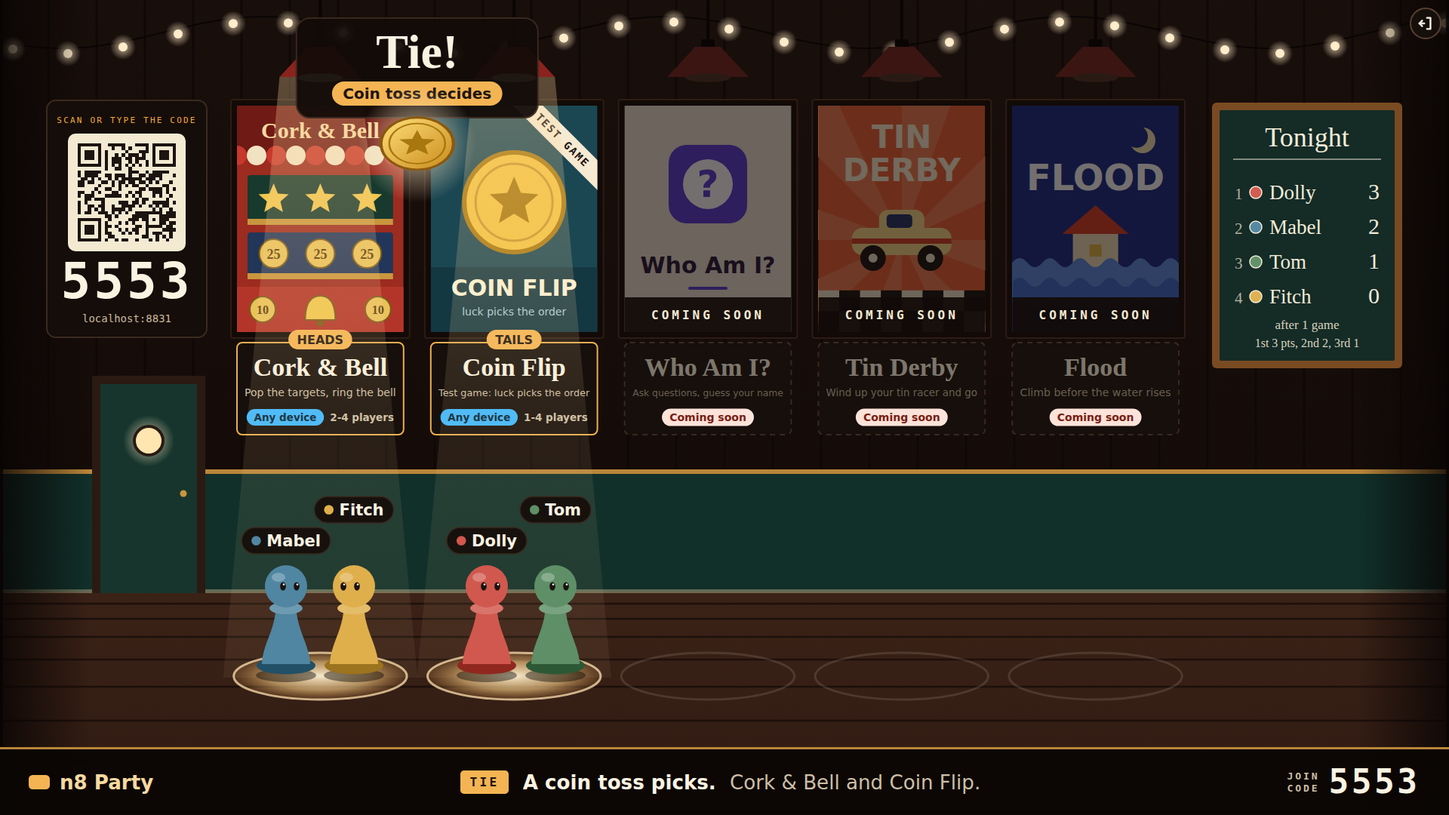
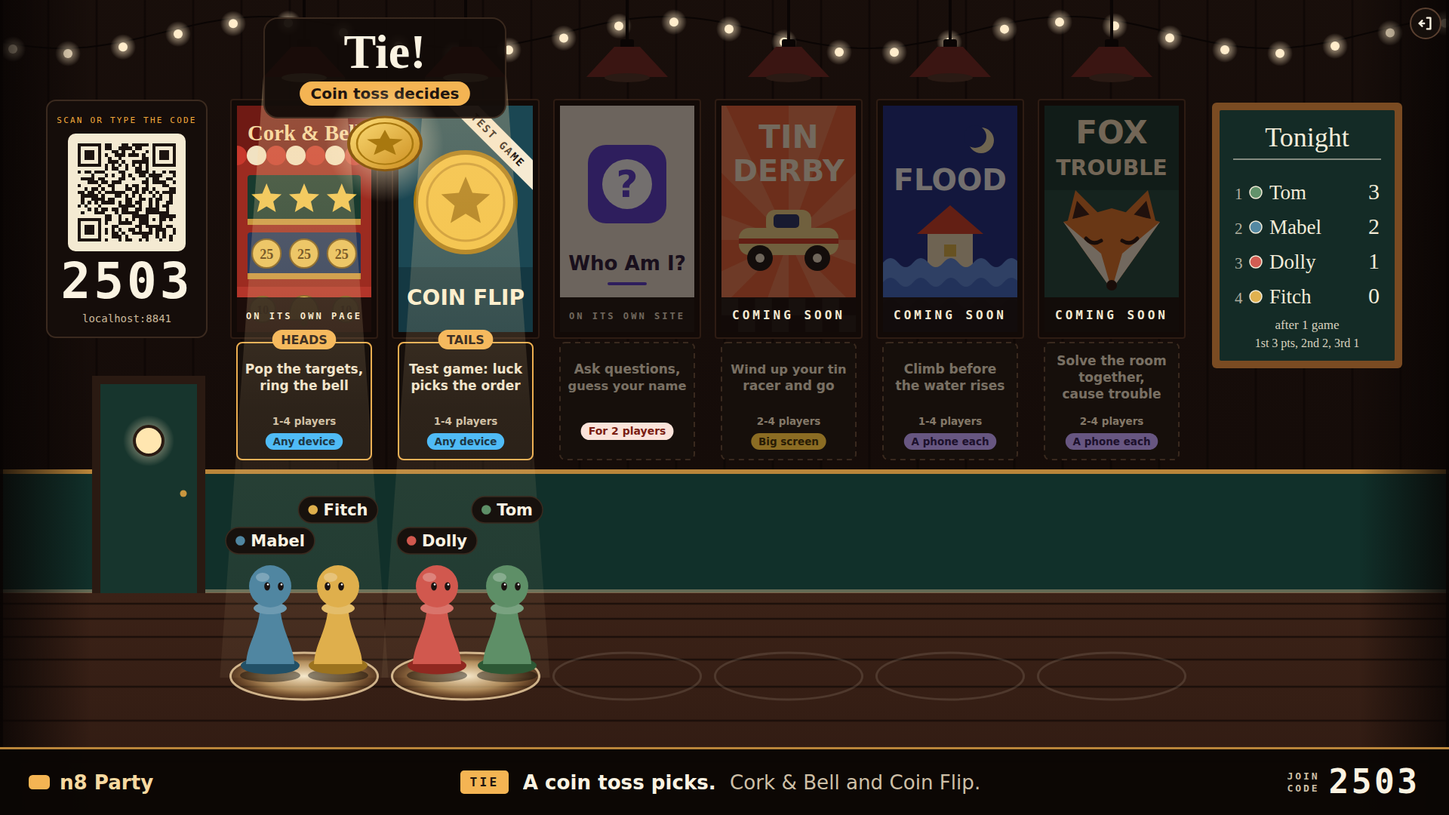
feat(lobby): signs say how many can play, Cork & Bell takes one to four, and Fox Trouble hangs sixth
Every sign states its player count, the coming-soon boxes too (their poster
says COMING SOON, so the sign is free to). A game that also plays alone
(players.solo) can be picked by a party of one, so Cork & Bell reads 1-4.
Flood is 1-4, Tin Derby 2-4, and Fox Trouble is a new coming-soon box.

The signs are laid out per wall: the line of words wraps to the width, the
count and the badge stack where they cannot share a row, and on a phone with
five boxes or more the sign keeps the count and the badge only.

Docs, stills, the socket test, the stills run (with the production wall via
--plain) and the measurement follow the new wall.

diff --git a/lobby/public/scene.js b/lobby/public/scene.js
@@ -53,8 +53,7 @@ export class Scene {
     this.joinSign(room);
     this.door();
     this.board();
-    /** Every sign's line of words: the signs are laid out alike, for the longest of them. */
-    this.wide = room.boxes.map((box) => box.blurb);
+    this.signs = this.planSigns(room.boxes, boxWidth(n));
     this.boxes = room.boxes.map((box, i) => this.box(box, i, n));
     this.overlay();
     // Now that it is all in the page, make every line of text fit its place.
@@ -181,21 +180,21 @@ export class Scene {
     frame.append(art, b.goldFrame);
 
     // The sign under the poster: one line about the game, the device badge and how many play.
-    // The game's name is on the poster and nowhere else. A phone gets bigger words, and the line
-    // is broken in two wherever the signs are too narrow to hold it at a size worth reading.
-    const blurbSize = compact ? 24 : 17;
-    const step = compact ? 29 : 22;
-    const two = compact || this.wide.some((line) => line.length * blurbSize * 0.54 > w - 18);
-    const lines = two ? twoLines(box.blurb) : [box.blurb];
-    const signH = compact ? 126 : two ? 106 : 84;
-    b.sign = s("rect", { x, y: SIGN_TOP, width: w, height: signH, rx: 7, "stroke-width": 2 });
-    const firstY = SIGN_TOP + (compact ? 33 : 30) + (two && lines.length === 1 ? step / 2 : 0);
-    b.blurbs = lines.map((line, k) => label(line, { x: cx, y: firstY + k * step, "font-size": blurbSize, "text-anchor": "middle", class: "t-ui t-semi", "data-fit": w - 18 }));
+    // The game's name is on the poster and nowhere else. Every sign on a wall is laid out alike
+    // (this.signs, worked out once for the wall): the line of words broken to fit, then how many
+    // play and the device badge, side by side where there is room and one above the other where not.
+    const plan = this.signs;
+    const lines = plan.lines ? wrap(box.blurb, plan.chars) : [];
+    const firstY = SIGN_TOP + (compact ? 33 : 30) + ((plan.lines - lines.length) * plan.step) / 2;
+    b.blurbs = lines.map((line, k) => label(line, { x: cx, y: firstY + k * plan.step, "font-size": plan.size, "text-anchor": "middle", class: "t-ui t-semi", "data-fit": w - 18 }));
+    b.rowY = SIGN_TOP + (plan.lines ? (compact ? 33 : 30) + (plan.lines - 1) * plan.step + (compact ? 34 : 30) : compact ? 30 : 24);
+    b.rowY2 = plan.stacked ? b.rowY + (compact ? 40 : 27) : b.rowY;
+    b.sign = s("rect", { x, y: SIGN_TOP, width: w, height: b.rowY2 - SIGN_TOP + (compact ? 30 : 24), rx: 7, "stroke-width": 2 });
     const [badgeFill, badgeInk] = BADGE_COLOURS[box.badge];
-    b.badge = pill(BADGES[box.badge], compact ? 21 : 13.5, badgeFill, badgeInk);
-    b.players = label(playersLabel(box.min, box.max), { "font-size": compact ? 20 : 13.5, fill: "#cdbfa6", class: "t-ui t-semi" });
+    // The longest badge is cut short where a sign is too narrow to hold it at a size worth reading.
+    b.badge = pill(plan.tight && box.badge === "screen" ? "Big screen" : BADGES[box.badge], compact ? 21 : 13.5, badgeFill, badgeInk);
+    b.players = label(playersLabel(box.min, box.max), { "font-size": compact ? 22 : 13.5, fill: "#cdbfa6", class: "t-ui t-semi" });
     b.reason = pill("Coming soon", compact ? 21 : 14, "#fbe3da", "#7a1d12");
-    b.rowY = SIGN_TOP + (compact ? 96 : two ? 82 : 60);
     b.chip = pill("HEADS", compact ? 22 : 16, "#f4b453", "#1e1410");
     set(b.chip.g, { display: "none" });
     frame.append(b.sign, ...b.blurbs, b.badge.g, b.players, b.reason.g, b.chip.g);
@@ -212,22 +211,41 @@ export class Scene {
   /** Places the badge, the player count or the reason on a sign's bottom row, centred. */
   layoutSign(b) {
     const compact = this.opts.compact;
-    sizePill(b.badge);
-    sizePill(b.reason);
+    sizePill(b.badge, b.w - 12);
+    sizePill(b.reason, b.w - 12);
     sizePill(b.chip);
-    place(b.reason, b.cx - b.reason.w / 2, b.rowY);
+    place(b.reason, b.cx - b.reason.w / 2, (b.rowY + b.rowY2) / 2);
     place(b.chip, b.cx - b.chip.w / 2, SIGN_TOP - 4);
-    const gap = compact ? 10 : 8;
+    const drop = compact ? 7.5 : 4.5; // from a row's middle to the baseline of its words
     const playersW = b.players.getComputedTextLength();
-    // How many play goes beside the badge wherever both fit; on a phone's narrow sign the badge stands alone.
-    b.roomy = b.badge.w + gap + playersW <= b.w - 14;
-    if (!b.roomy) {
-      set(b.players, { display: "none" });
-      return place(b.badge, b.cx - b.badge.w / 2, b.rowY);
+    if (this.signs.stacked) {
+      // A narrow sign: how many play, and the badge under it.
+      set(b.players, { x: b.cx - playersW / 2, y: b.rowY + drop });
+      return place(b.badge, b.cx - b.badge.w / 2, b.rowY2);
     }
+    const gap = compact ? 10 : 8;
     const left = b.cx - (b.badge.w + gap + playersW) / 2;
     place(b.badge, left, b.rowY);
-    set(b.players, { x: left + b.badge.w + gap, y: b.rowY + (compact ? 7 : 4.5) });
+    set(b.players, { x: left + b.badge.w + gap, y: b.rowY + drop });
+  }
+
+  /**
+   * How every sign on this wall is laid out, from how wide a box is: the size of the line of
+   * words and how many lines it may take, and whether the count and the badge share a row.
+   * A phone's sign is too narrow for the words once there are five boxes or more (they would
+   * need three lines of small print): there the sign keeps the count and the badge, and the
+   * words are read on a bigger screen.
+   */
+  planSigns(boxes, w) {
+    const compact = this.opts.compact;
+    const size = compact ? 24 : 17;
+    const chars = Math.floor((w - 18) / (size * 0.56));
+    const needed = Math.max(1, ...boxes.map((box) => wrap(box.blurb, chars).length));
+    const lines = compact ? (needed > 2 ? 0 : 2) : Math.min(3, needed);
+    // The widest row any sign needs: the longest badge and "2-4 players", at about 0.6 of the size a letter.
+    const badge = Math.max(...boxes.map((box) => BADGES[box.badge].length)) * (compact ? 21 : 13.5) * 0.6 + (compact ? 30 : 20);
+    const count = 11 * (compact ? 22 : 13.5) * 0.58;
+    return { size, step: compact ? 29 : 22, chars, lines, stacked: badge + 10 + count > w - 14, tight: BADGES.screen.length * (compact ? 21 : 13.5) * 0.6 + (compact ? 30 : 20) > w - 12 };
   }
 
   /** What floats over the room: the count ring and the coin toss. */
@@ -302,13 +320,16 @@ export class Scene {
         set(b.bulb, { fill: on ? "#ffe2a8" : "#2a1a14" });
         set(b.cone, { display: on ? null : "none" });
         set(b.dim, { opacity: on ? 0 : 0.58 });
-        set(b.badge.g, { display: why ? "none" : null, opacity: on ? 1 : 0.5 });
-        set(b.players, { display: why || !b.roomy ? "none" : null });
-        set(b.reason.g, { display: why ? null : "none" });
-        if (why) {
-          b.reason.text.textContent = why;
-          sizePill(b.reason);
-          place(b.reason, b.cx - b.reason.w / 2, b.rowY);
+        // A game that is not built says so on its poster, so its sign still says how many will
+        // play it. A game this party does not fit says why instead ("Needs 2 players").
+        const say = why && !b.box.soon ? why : null;
+        set(b.badge.g, { display: say ? "none" : null, opacity: on ? 1 : 0.5 });
+        set(b.players, { display: say ? "none" : null, opacity: on ? 1 : 0.6 });
+        set(b.reason.g, { display: say ? null : "none" });
+        if (say) {
+          b.reason.text.textContent = say;
+          sizePill(b.reason, b.w - 12);
+          place(b.reason, b.cx - b.reason.w / 2, (b.rowY + b.rowY2) / 2);
         }
       }
     }
@@ -567,15 +588,27 @@ export class Scene {
   }
 }
 
-/** A line of words broken into two of about the same length, at a space. A single word stays one line. */
-function twoLines(text) {
+/**
+ * A line of words broken at spaces into as few lines as hold it at `chars` letters a line, and
+ * then evened out, so no line is much longer than the others.
+ */
+function wrap(text, chars) {
   const words = text.split(" ");
-  let best = [text];
-  let bestLongest = Infinity;
-  for (let i = 1; i < words.length; i++) {
-    const pair = [words.slice(0, i).join(" "), words.slice(i).join(" ")];
-    const longest = Math.max(pair[0].length, pair[1].length);
-    if (longest < bestLongest) [best, bestLongest] = [pair, longest];
+  const fill = (limit) => {
+    const lines = [];
+    for (const word of words) {
+      const last = lines[lines.length - 1];
+      if (last !== undefined && last.length + 1 + word.length <= limit) lines[lines.length - 1] = `${last} ${word}`;
+      else lines.push(word);
+    }
+    return lines;
+  };
+  let best = fill(chars);
+  // The same number of lines, with the narrowest limit that still gives it.
+  for (let limit = chars - 1; limit > 0; limit--) {
+    const tighter = fill(limit);
+    if (tighter.length !== best.length) break;
+    best = tighter;
   }
   return best;
 }
@@ -587,7 +620,14 @@ function pill(text, size, fill, ink) {
   return { g: s("g", {}, back, t), back, text: t, size, w: 0, h: 0 };
 }
 
-function sizePill(p) {
+/** Sizes a pill around its words. With `max`, the words are made smaller until the pill is no wider than that. */
+function sizePill(p, max = Infinity) {
+  p.size = p.full ??= p.size;
+  set(p.text, { "font-size": p.size });
+  for (let i = 0; i < 5 && p.text.getComputedTextLength() + p.size * 1.44 > max && p.size > 8; i++) {
+    p.size = Math.max(8, Math.floor(p.size * Math.min(0.95, max / (p.text.getComputedTextLength() + p.size * 1.44)) * 10) / 10);
+    set(p.text, { "font-size": p.size });
+  }
   const padX = p.size * 0.72;
   p.h = Math.round(p.size * 1.62);
   p.w = p.text.getComputedTextLength() + padX * 2;

diff --git a/lobby/test/shared.test.js b/lobby/test/shared.test.js
@@ -102,18 +102,23 @@ describe("which games the party can play", () => {
     expect(standingsFromRows(null)).toEqual([]);
   });
 
-  it("hangs Cork & Bell, Who Am I? and two coming-soon boxes on the production wall, and no test game", () => {
-    expect(WALL.boxes.map((b) => b.id)).toEqual(["cork-and-bell", "who-am-i", "tin-derby", "flood"]);
-    expect(WALL.boxes[0]).toMatchObject({ name: "Cork & Bell", badge: "any", min: 2, max: 4, soon: false, url: "/cork-and-bell/" });
+  it("hangs Cork & Bell, Who Am I? and three coming-soon boxes on the production wall, and no test game", () => {
+    expect(WALL.boxes.map((b) => b.id)).toEqual(["cork-and-bell", "who-am-i", "tin-derby", "flood", "fox-trouble"]);
+    // Cork & Bell also plays alone, so a party of one can pick it.
+    expect(WALL.boxes[0]).toMatchObject({ name: "Cork & Bell", badge: "any", min: 1, max: 4, soon: false, url: "/cork-and-bell/" });
     expect(WALL.boxes[1]).toMatchObject({ name: "Who Am I?", badge: "phones", min: 2, max: 2, soon: false, url: "https://whoami.n8builds.dev/" });
-    expect(WALL.boxes.filter((b) => b.soon).map((b) => b.badge)).toEqual(["screen", "phones"]);
+    expect(WALL.boxes.filter((b) => b.soon).map((b) => [b.name, b.badge, playersLabel(b.min, b.max)])).toEqual([
+      ["Tin Derby", "screen", "2-4 players"],
+      ["Flood", "phones", "1-4 players"],
+      ["Fox Trouble", "phones", "2-4 players"],
+    ]);
     expect(WALL.boxes.some((b) => b.test)).toBe(false);
     for (const b of WALL.boxes) expect(b.blurb.length, b.id).toBeGreaterThan(5);
     expect([...WALL.games.keys()]).toEqual([]);
   });
 
   it("adds Coin Flip only where the environment switches test games on", () => {
-    expect(TEST_WALL.boxes.map((b) => b.id)).toEqual(["cork-and-bell", "coin-flip", "who-am-i", "tin-derby", "flood"]);
+    expect(TEST_WALL.boxes.map((b) => b.id)).toEqual(["cork-and-bell", "coin-flip", "who-am-i", "tin-derby", "flood", "fox-trouble"]);
     expect(TEST_WALL.boxes[1]).toMatchObject({ test: true, min: 1, url: null });
     expect([...TEST_WALL.games.keys()]).toEqual(["coin-flip"]);
     expect(wallFor({ PARTY_TEST_GAMES: "on" })).toBe(TEST_WALL);

diff --git a/lobby/public/art.js b/lobby/public/art.js
@@ -79,6 +79,20 @@ const ART = {
     };
     g.append(wave(208, "#5d8fe6"), wave(234, "#3f6fd0"), wave(262, "#2f55b5"));
   },
+
+  "fox-trouble"(g, w, h) {
+    g.append(s("rect", { width: w, height: h, fill: "#173b33" }), s("rect", { y: 112, width: w, height: h - 112, fill: "#1f4a40" }));
+    g.append(title("FOX", w / 2, 50, 42, "#ffe9c7", w - 30), title("TROUBLE", w / 2, 92, 42, "#ffe9c7", w - 30));
+    const cx = w / 2;
+    // A fox's face, looking pleased with itself: two ears, a mask, pale cheeks, half-shut eyes.
+    for (const k of [-1, 1]) {
+      g.append(s("polygon", { points: `${cx + k * 60},160 ${cx + k * 48},112 ${cx + k * 14},146`, fill: "#e8792b" }), s("polygon", { points: `${cx + k * 52},150 ${cx + k * 46},126 ${cx + k * 28},146`, fill: "#3a2018" }));
+    }
+    g.append(s("polygon", { points: `${cx - 64},154 ${cx},136 ${cx + 64},154 ${cx},244`, fill: "#e8792b" }));
+    for (const k of [-1, 1]) g.append(s("polygon", { points: `${cx + k * 64},154 ${cx + k * 14},196 ${cx},244`, fill: "#fbefd9" }));
+    for (const k of [-1, 1]) g.append(s("path", { d: `M${cx + k * 34},176 q${-k * 9},10 ${-k * 20},3`, stroke: "#2a1610", "stroke-width": 5, "stroke-linecap": "round", fill: "none" }));
+    g.append(s("circle", { cx, cy: 238, r: 7, fill: "#2a1610" }));
+  },
 };
 
 /** Draws the box art for `id` into `g`; a game with no picture of its own gets its name on a plain panel. */

diff --git a/lobby/wall.js b/lobby/wall.js
@@ -28,7 +28,8 @@ export const OUTSIDE = [
 
 const COMING_SOON = [
   { id: "tin-derby", name: "Tin Derby", blurb: "Wind up your tin racer and go", players: { min: 2, max: 4 }, devices: { phone: true, desktop: false, sharedScreen: "required" } },
-  { id: "flood", name: "Flood", blurb: "Climb before the water rises", players: { min: 2, max: 4 }, devices: { phone: true, desktop: false } },
+  { id: "flood", name: "Flood", blurb: "Climb before the water rises", players: { min: 1, max: 4 }, devices: { phone: true, desktop: false } },
+  { id: "fox-trouble", name: "Fox Trouble", blurb: "Solve the room together, cause trouble", players: { min: 2, max: 4 }, devices: { phone: true, desktop: false } },
 ];
 
 /**

diff --git a/lobby/shared/vote.js b/lobby/shared/vote.js
@@ -48,7 +48,8 @@ export function boxFromManifest(manifest, extra = {}) {
     name: manifest.name,
     blurb: manifest.blurb ?? extra.blurb ?? "",
     badge: badgeFor(manifest.devices),
-    min: manifest.players?.min ?? 1,
+    // A game that also plays alone (`players.solo`) can be picked by a party of one.
+    min: manifest.players?.solo ? 1 : (manifest.players?.min ?? 1),
     max: manifest.players?.max ?? 4,
     soon: !!extra.soon,
     test: !!extra.test,

diff --git a/lobby/README.md b/lobby/README.md
@@ -23,7 +23,13 @@ Make each window short and wide to see what a sideways phone sees, or use the br
 3. Walk with the arrow keys (or A and D), jump with Space, bump with B, and open the door button with Escape. On a touch screen the same things are buttons.
 4. Stand both pieces in Coin Flip's light: "Starts in 3" counts down, the game plays, and both are back by the door with points on the Tonight board.
 5. Stand one piece in each lit light for a tie and its coin toss.
-6. Close one window to see the piece turn grey, and fade thirty seconds later.
+6. Stand both pieces in Who Am I?'s light: "Opens in 3" counts down, a card says where everyone is going, and both windows go to its own site.
+7. Close one window to see the piece turn grey, and fade thirty seconds later.
+
+Coin Flip is a test game.
+It hangs on the wall only where `PARTY_TEST_GAMES` is `"on"`, which is the `local` environment in `wrangler.jsonc` (`npm run dev` and the test runs).
+Production has no such variable, so its wall is Cork & Bell, Who Am I? and the three coming-soon boxes (Tin Derby, Flood, Fox Trouble).
+To see the wall as production hangs it: `npx wrangler dev --local --env local --port 8792 --var PARTY_TEST_GAMES:off`.
 
 For a big screen, open a third window, choose "Use this as the room's screen" and type the code.
 For phones on the same network, `npm run dev:lan` prints the address to open; the QR code on the wall then points at it.
@@ -32,22 +38,40 @@ Stills of the main states, from a real run, are in [`shots/`](shots/).
 ## What is built
 
 - The room in the bar look, drawn with plain shapes as one SVG, the same picture on every device.
-- Game boxes from each game's manifest: name, one line about it, the device badge (cyan any device, violet a phone each, amber phones and a big screen) and the player count.
+- Game boxes from each game's manifest. The name is on the poster, once. The sign under it has one line about the game, how many can play ("1-4 players") and the device badge (cyan any device, violet a phone each, amber phones and a big screen). Every sign says how many can play, the coming-soon ones too. On a phone, with five boxes or more, a sign is too narrow for the line of words at a size worth reading, so it keeps the count and the badge and the words are left to bigger screens.
 - The join code and its QR code on the wall, and a Tonight board with 3, 2 and 1 points for first, second and third.
 - Pawns in the four seat colours with name tags: walk, jump, and a weak bump everyone has.
 - The vote: standing in a light is your vote, a visible count runs when every connected player stands in some light, the light with the most players wins, stepping out of every light stops it, and "Waiting for" names who is in the dark.
 - A tie is settled by a coin toss everybody watches. A phone in the closer view pulls back to the whole room for the count and the toss.
 - A player alone can start: one piece in a light runs the same three-second count.
-- A game the party cannot play has its light off and says why in a few words ("Needs 2 players", "Needs a big screen", "Coming soon").
+- A game the party cannot play has its light off and says why in a few words ("Needs 2 players", "For 2 players", "Needs a big screen", "Coming soon").
+- Outside games: a game that plays on a site of its own hangs on the wall with an address instead of a hosted game (below).
 - A big screen that joins with the code and holds no seat, and a player's view with buttons, a "Whole room / Closer" switch and a "turn your phone" hint when upright.
 - Joining in the middle of a vote, a dropped phone that turns grey, comes back to its seat or fades with a note, and "Leave the party" behind the door button. Whenever the set of connected players changes, the count starts over.
 - Someone who left or dropped and joins again under the same name gets their points back.
 - A game started with the party's seats, ended with places, and everyone returned to the lobby with points: the seam in `party-kit/GAME-CONTRACT.md`, "The lobby hooks".
 
+## Outside games
+
+An outside game is not on the kit: it has a site and rooms of its own.
+In `wall.js` it is an entry with a `url` where a hosted game has a server definition (`OUTSIDE`), and its poster says "ON ITS OWN SITE".
+Who Am I? (`https://whoami.n8builds.dev/`) is the first.
+
+- Its light follows the same rule as any game's: on when the party is a size the game takes. Who Am I? is for exactly two players (its engine's `MAX_PLAYERS`, and it needs both to start), so with one player its sign says "Needs 2 players" and with three or four "For 2 players".
+- The count reads "Who Am I? opens in 3", not "starts".
+- When it wins the count or the coin toss, the room sends every page `away { id, name, url, in }`. Every player's page and the big screen show a card, "Off to Who Am I?", for six seconds (`AWAY_MS`) and then go to the address. The card says the party's code does not work there (one of them makes a room on that site and the others join it) and that nobody scores. "Go now" goes at once; "Stay in the room" keeps that one device here.
+- Nothing starts in the room, so nothing ticks and no room time is spent: it costs the one wake-up that ended the count.
+- The Tonight board gets no points from an outside game, and it does not count as a game played.
+- Afterwards the party room is left alone. The pieces are put back by the door, and a new count cannot start for twelve seconds, so anyone who stayed is not sent off again at once. Once the pages have gone the room is empty: the seats are let go after thirty seconds and the room closes a minute after the last page left, by the usual rules. Coming back to the room's address inside that minute finds the same seat and points; after it, the party has ended and a new one is started.
+- The page only ever follows an `https` address or a page of this site, and only one that came from the room's own wall.
+
+Cork & Bell hangs the same way for now, with its own page on this site (`/cork-and-bell/`) as the address, because it does not open inside the room yet.
+
 ## What is not built
 
-- Cork & Bell does not open inside the room. Its light is on and it can win the vote; the room then shows a card that says so, with a link to the game's own page, and nobody scores.
-- Coin Flip is a placeholder, marked "TEST GAME" on its box. Who Am I?, Tin Derby and Flood are names and pictures only.
+- Cork & Bell does not open inside the room. Its light is on and it can win the vote; everyone is then sent to the game's own page as with an outside game, and nobody scores.
+- Coin Flip is a placeholder for local play and the tests, marked "TEST GAME" on its box. Tin Derby, Flood and Fox Trouble are names and pictures only.
+- A party's code, seats and points do not carry over to an outside game's site.
 - No skins, no abilities, no chat bubbles, no walking through the door, no "host starts" setting, no other rooms.
 - "Back to the room" in the middle of a game.
 
@@ -116,8 +140,8 @@ Once a real game is hosted in the room, its rounds will cost what they cost in t
 | `shared/status.js` | The words under the room. |
 | `server/lobby-core.js` | The room as plain logic with an injected clock: seats, the vote, the game seam, the Tonight board, sleeping and closing. |
 | `server/lobby-room.js` | The Durable Object around it: sockets, relaying, the alarm, the budget. |
-| `games/coin-flip.js` | The test game. |
-| `wall.js` | Which boxes hang on the wall and which can start. |
+| `games/coin-flip.js` | The test game, hung only where `PARTY_TEST_GAMES` is on. |
+| `wall.js` | Which boxes hang on the wall (hosted, outside, test, coming soon), which can start, and the wall each environment gets. |
 | `public/` | The page at `/lobby/`: the way in, the scene, the buttons and words over it, and each game's view. |
 | `test/` | Unit tests, the socket test, the browser run and the cost measurement. |
 
@@ -126,7 +150,7 @@ Once a real game is hosted in the room, its rounds will cost what they cost in t
 ## Tests
 
 - `npm test` runs the unit tests with the kit's: the room's rules (`test/lobby-core.test.js`) and the shared logic, the awake meter and the socket rate limit (`test/shared.test.js`).
-- `npm run test:lobby` (with `npm run dev` running) puts four socket players through an evening, then checks that a lobby nobody touches goes silent: no messages, no timer, nothing added to the budget.
-- `npm run lobby:shots` drives real pages in a headless, muted browser and takes a still of every state on a big screen, a sideways phone and an upright one, checking that no text spills out of its place. Stills land in `lobby/test/shots/`, which is not committed; a chosen few are in `lobby/shots/`.
+- `npm run test:lobby` (with `npm run dev` running) puts four socket players through an evening, sends a party of two off to an outside game, then checks that a lobby nobody touches goes silent: no messages, no timer, nothing added to the budget.
+- `npm run lobby:shots` drives real pages in a headless, muted browser and takes a still of every state on a big screen, a sideways phone and an upright one, checking that no text spills out of its place and that no card runs off a screen. It follows an outside game all the way to its address (the browser is handed a stand-in page, so no test touches the real site), and with `--plain=<a server with the test games off>` it also takes the wall as production hangs it. Stills land in `lobby/test/shots/`, which is not committed; a chosen few are in `lobby/shots/`.
 - `npm run lobby:measure` is the cost measurement above.
 - `node lobby/test/e2e-budget.mjs` checks what happens when the allowance is spent; its header says which server to start.

diff --git a/party-kit/GAME-CONTRACT.md b/party-kit/GAME-CONTRACT.md
@@ -67,8 +67,8 @@ On the party site the party room (the lobby) is a second room class beside it, a
 
 The party room keeps a group in one room while it switches games.
 This is how a game plugs into it.
-It is a proposal that is built and tested for one game: Coin Flip, a placeholder in this repository (`lobby/games/coin-flip.js`).
-Cork & Bell does not go through it yet; what that would take is at the end.
+It is a proposal that is built and tested for one game: Coin Flip, a placeholder in this repository (`lobby/games/coin-flip.js`) that hangs on the wall only where `PARTY_TEST_GAMES` is `"on"` (local play and the tests).
+Cork & Bell does not go through it yet: it hangs as an outside game (below) that points at its own page. What hosting it would take is at the end.
 The room is `lobby/server/lobby-core.js` (the rules) and `lobby/server/lobby-room.js` (the Durable Object).
 
 ### A room holds one current activity
@@ -101,7 +101,7 @@ standings(state) { return [{ seat: 2, place: 1 }, { seat: 0, place: 2 }, { seat:
 
 A game without `standings` is read from `game.result(state)` instead, when that is a list of rows, best first, each with `seat` and `score` (Cork & Bell's is).
 The room turns places into points for the night: 3 for first, 2 for second, 1 for third.
-It sends `end { room, result, last, now }`, where `result` is the game's own result and `last` is the room's card: `{ round, game, name, rows: [{ seat, name, colour, place, points }], note }`.
+It sends `end { room, result, last, now }`, where `result` is the game's own result and `last` is the room's card: `{ round, game, name, rows: [{ seat, name, colour, place, points }] }`.
 
 ### Return: everyone is back in the lobby
 
@@ -138,13 +138,28 @@ That part is proposed, not built: Coin Flip's view lives in this repository.
 | `manifest.devices.sharedScreen` | `true`: the game can use a big screen. `"required"`: it needs one, and its light stays off until a screen has joined the room. |
 
 The device badge on a box comes from `devices`: amber "Phones + big screen" when a screen is required, violet "A phone each" when it plays on phones only, and cyan "Any device" otherwise.
-The box's player count is `players.min` to `players.max`, and its light is off, with the reason in a few words, when the party is too small or too large.
+The box's player count is `players.min` to `players.max`, or from 1 when the game also plays alone (`players.solo`), and its light is off, with the reason in a few words, only when the party is too small or too large.
+The game's name is written once, on its poster; the sign under it carries the blurb and the badges.
+
+### Outside games
+
+A game that is not on the kit and plays on a site of its own can still hang on the wall.
+It keeps none of this contract: the site lists it in `lobby/wall.js` (`OUTSIDE`) with what a box needs and an address.
+
+```js
+{ id: "who-am-i", name: "Who Am I?", blurb: "Ask questions, guess your name", players: { min: 2, max: 2 }, devices: { phone: true, desktop: false }, url: "https://whoami.n8builds.dev/" }
+```
+
+`players` is what the game itself allows, so its light goes off for a party that does not fit, like any other.
+It has no `game`, so the room never calls `create`: when it wins the vote the room sends every socket `away { id, name, url, in }`, each page shows where it is going for `in` milliseconds and then goes to `url`.
+Nothing of the party carries over (not the code, the seats or the points), no points go on the Tonight board, and the party room empties and closes by its usual rules.
+A hosted game whose view cannot be mounted in the room yet is hung the same way, with its own `manifest.path` as the address.
 
 ### What hosting Cork & Bell through this would take
 
 On the server it is small.
 Its `game` already has everything the room calls, its result rows already give places, and a party of two to four needs no stand-ins to start.
-In `lobby/wall.js` the stand-in for a hosted game is replaced by the game itself.
+In `lobby/wall.js` the hosted game stops being hung as an outside game and its own `game` goes into the wall's `games`.
 
 In the browser it is the real work, and it is not small.
 Cork & Bell's page (`game/main.js`) is built around the kit's waiting room and around being the whole page.

diff --git a/DEPLOY.md b/DEPLOY.md
@@ -54,8 +54,8 @@ Make at most a handful of rooms when checking.
 ## The party room
 
 19. Open `https://partygames.n8builds.dev/` on a laptop, start a party as the room's screen, and join it from two phones with the code or the QR code on the wall.
-20. Walk about, vote, let Coin Flip start and come back, then put the phones down with the room open for at least 8 minutes.
-21. In the dashboard open the `LobbyRoom` namespace's Metrics tab: expect requests while people moved and one short blip of duration for the game, and nothing at all while the phones lay still.
+20. Check the wall: Cork & Bell, Who Am I?, Tin Derby, Flood and Fox Trouble, and no Coin Flip (the test game hangs only where `PARTY_TEST_GAMES` is `"on"`, which production is not). Walk about and stand in different lights, then put the phones down with the room open for at least 8 minutes. Last of all, stand both phones in Who Am I?'s light: after the count a card says "Off to Who Am I?" and the laptop and both phones go to `https://whoami.n8builds.dev/`.
+21. In the dashboard open the `LobbyRoom` namespace's Metrics tab: expect requests while people moved, and nothing at all while the phones lay still. An outside game adds no duration: nothing is played in the room.
 22. If duration grows while nobody touches anything, something is keeping the room awake, so set `PARTY_ROOM_BUDGET_SHARE` to a tiny value (open party rooms close within three minutes and no new ones open) and investigate.
 23. Confirm that `https://partygames.n8builds.dev/api/lobby/debug` answers 404: the door into the budget's books is for local tests only.
 24. After a busy evening, compare Durable Objects requests under Billable Usage with the numbers in `lobby/README.md`: requests, not duration, are what a busy party room uses most of. The `usage` key in step 17 also holds the requests the party rooms counted (`dayRequests`, `monthRequests`).

diff --git a/README.md b/README.md
@@ -21,8 +21,9 @@ Each game is its own repository, and plays on its own from there:
 
 - [Cork & Bell](https://github.com/n8watkins/cork-and-bell) - a 1930s fairground shooting gallery at dusk. One stall on your own, or a battle of two to four stalls side by side. Built with three.js and light baked in Blender.
 
-Cork & Bell hangs on the party room's wall, but does not open inside the room yet: that is the next piece of work.
-Until then the room's one playable game is Coin Flip, a placeholder that is clearly marked as a test.
+Cork & Bell hangs on the party room's wall, but does not open inside the room yet: when it wins the vote everyone is sent to its own page.
+Who Am I? hangs there too as an outside game: it plays on its own site, and winning the vote sends everyone there.
+Coin Flip, a placeholder marked as a test, hangs only in local play and the test runs.
 
 ## Run it
 
